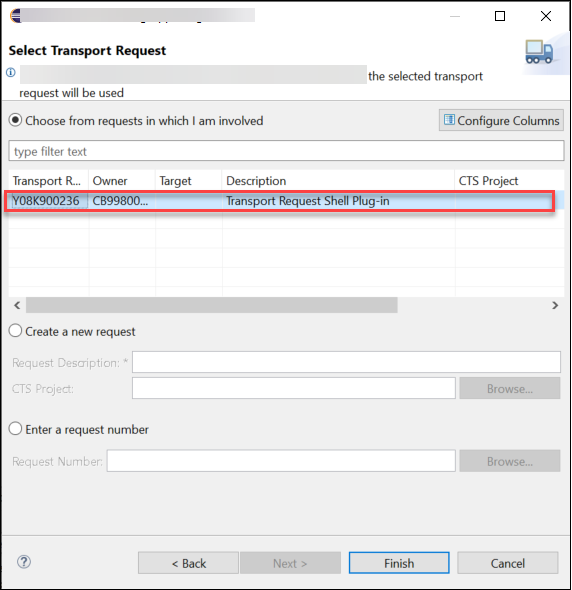
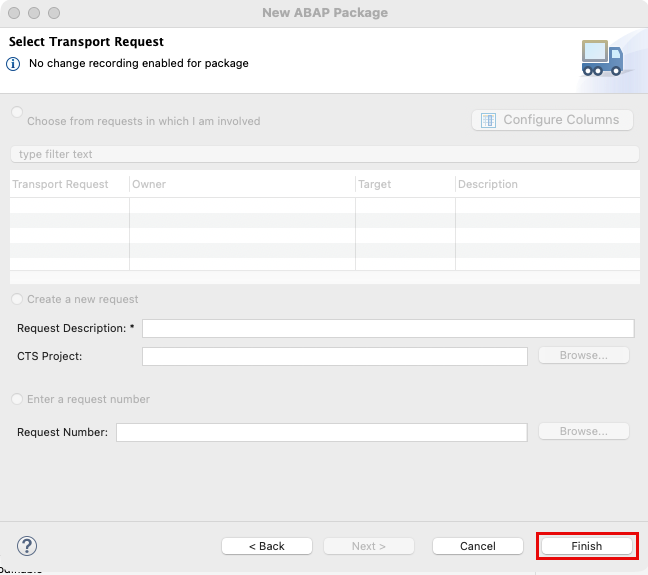
Changes after tutorial review

diff --git a/tutorials/abap-environment-shell-plugin-enrich/abap-environment-shell-plugin-enrich.md b/tutorials/abap-environment-shell-plugin-enrich/abap-environment-shell-plugin-enrich.md
@@ -41,9 +41,9 @@ In this tutorial you will continue working on the shell plug-in you created in t
 
     ![Create data definition - create 2](create_data_definition_3.png)
 
-5. Select the transport request you created in the previous tutorial, and click on **Next**.
+5. Click on **Next**, then on **Finish**. 
 
-    ![Create data definition - transport request](create_transport_request.png)
+    ![Create data definition - no tr needed ](create_transport_request.png)
 
 6. The Data Definition is initialized with a pre-filled code based on your chosen template. Adjust it as follows:
 
@@ -70,11 +70,11 @@ In this tutorial you will continue working on the shell plug-in you created in t
 ### Create a Business User Data Definition
 Now you need to create a second Data Definition, which will take the User ID exposed by the Data Definition you created in the previous step, and will expose the data related to that User ID, such as name and email address.
 
-1. As in the previous step, right click on the package and select **New** > **Other ABAP Repository Object**. In the search bar, search for **Data Definition** and click on it. Enter a **Name** and a **Description**. Click on **Next**.
+1. As in the previous step, right click on the package and select **New** > **Other ABAP Repository Object**. In the search bar, search for **Data Definition** and click on it. Enter a **Name** and a **Description**. 
 
     ![Create data definition - Business User](create_data_definition_7.png)
 
-2. Select your transport request and click on **Finish**.
+2. Click on **Finish**, then on **Finish**.
 
 3. The Data Definition is initialized with a pre-filled code based on your chosen template. Adjust it as follows:
 
@@ -106,13 +106,11 @@ Now you need to create a second Data Definition, which will take the User ID exp
 ### Create a Service Definition
 In order to expose the data from the two previous Data Definitions you need to create a Service Definition.
 
-1. Right click on the package and select **New** > **Other ABAP Repository Object**. In the search bar, search for **Service Definition** and click on it. Enter a **Name** and a **Description**. Click on **Next**.
+1. Right click on the package and select **New** > **Other ABAP Repository Object**. In the search bar, search for **Service Definition** and click on it. Enter a **Name** and a **Description**. Click on **Next**, then on **Finish**.
 
     ![Create service definition](create_service_definition_1.png)
 
-2. Select your transport request and click on **Finish**.
-
-3. Add your Projection Views to your Service Definition as follows:
+2. Add your Projection Views to your Service Definition as follows:
 
     ``` ABAP
     @EndUserText.label: 'Business User Service Definition'
@@ -122,7 +120,7 @@ In order to expose the data from the two previous Data Definitions you need to c
     }
     ```
 
-1. Save your Service Definition and activate it using the **Activate** icon.
+3. Save your Service Definition and activate it using the **Activate** icon.
 
     ![Activate - 2](activate_icon.png)
 
@@ -133,13 +131,13 @@ Your Service Definition will be consumed by your SAP Fiori Application via the u
 
     ![Create service binding](create_service_binding_1.png)
 
-2. Enter a **Name** and a **Description**. In the **Binding Type** dropdown menu, select the option **OData V4 - UI** and click on **Next**.
+2. Enter a **Name** and a **Description**. In the **Binding Type** dropdown menu, select the option **OData V4 - UI**.
 
     ![Create service binding - name and description](create_service_binding_2.png)
 
     >It is good practice to include the type of Service Binding in the Service Binding name, e.g.: adding the suffix `V_O4` to the name of Service Bindings of type OData Service V4.
 
-3. Select your transport request and click on **Finish**.
+3. Click on **Next**, then on **Finish**.
 
 4. Save your Service Binding and activate it using the **Activate** icon.
 
@@ -177,6 +175,8 @@ Now that you have created an OData Service which exposes user-related informatio
 4. Select the **Destination** option. In the **Destination** dropdown menu, select the destination pointing to your SAP BTP ABAP Environment. In the **Provide Service** section, select **Fetch** and from the **Select a service** dropdown menu, select your Service Binding. Click on **Add**.
 
     ![Add new service - parameters](add_new_service_2.png)
+
+>In ADT, navigate to your Service Binding. On the right side you will find the Service URL.
 
 5. Optional: in the **`manifest.json`** file you can see that the OData Service has been added automatically under `"dataSources"` and `"models"` configurations.
 
@@ -237,7 +237,7 @@ Your SAPUI5 Application can now consume user-related information via the OData S
 
     ![Create new view file](create_view_file_1.png)
 
-3. Input a **Name** for your new View file, and make sure it ends with `.fragment.xml` to create a View of type Fragment . Click on **OK**.
+3. Input a **Name** e.g. `BusinessUserFragment` for your new View file, and make sure it ends with `.fragment.xml` to create a View of type Fragment . Click on **OK**.
 
     ![Create new view file - name](create_view_file_2.png)
 
@@ -418,8 +418,11 @@ You can now re-deploy your SAPUI5 Application with an enhanced shell plug-in to 
 
     ![Deploy application](deploy_application.png)
 
+>In case the Deploy tile is not visible in the Application Info, right-click the ui5-deploy.yaml file, select Open in Integrated Terminal, and execute the command npm run deploy.    
+
 2. The deployment process will begin. You will be prompted to confirm the deployment by typing `Y`. Once the SAPUI5 Application is successfully deployed to your SAP BTP ABAP Environment, the terminal will return the status:
 `Deployment Successful`.
+
 >The deployment process can take up to a few minutes.
 
 ### Test your Shell Plug-in
